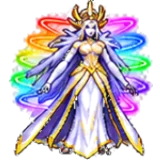
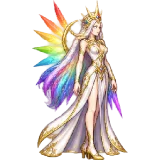
Ultra Signal: full boss set (sheet + 6 files) generated by Gemini via the Codex queue, passes the gate and is built in

diff --git a/docs/prompts/queue_log_091426.md b/docs/prompts/queue_log_091426.md
@@ -193,3 +193,25 @@ Append-only format:
 - CLAUDE 14:35 vault-mother hurt → PASS (gate + by eye: flinch / reel / airborne curl, chain trailing). Only defeat left.
 2026-09-14 14:43 vault-mother action defeat.png → GENERATED; INTAKEN; Claude verification pending. Vault Mother's seven requested images are complete; Claude must verify before any build or roster-art readiness change.
 - CLAUDE 14:48 vault-mother defeat → PASS (halo falls, knee, crawl, flat 7–9 with settle). **VAULT MOTHER COMPLETE 6/6, zero retries** — verify PASS, build + gates clean, npm test green, roster: level 9. Committed. Next: ultra-signal.
+2026-09-14 14:54 ultra-signal sheet ultra-signal-sheet.png → GENERATED; saved for Claude verification.
+- CLAUDE 14:57 ultra-signal sheet → ACCEPTED (spectrum hair, prismatic crown, white eyes, white-and-gold high-collar gown, nine-colour aura wings in spectrum order — the card exactly). The aura wings are wide: for the actions put the margin rule first as usual and add bolded **the aura wings stay inside the cell — narrower than in the sheet if needed — never touching a cell edge**. Continue with idle.
+2026-09-14 15:05 ultra-signal action idle.png → GENERATED; INTAKEN; Claude verification pending.
+2026-09-14 15:16 ultra-signal action approach.png → GENERATED; INTAKEN; Claude verification pending.
+- CLAUDE 15:22 ultra-signal idle → PASS (gate + by eye: aura wings inside the cells, orb flare on 5). Note: the gate takes ~3 min on this character (huge rainbow silhouettes) — not a fault.
+- CLAUDE 15:22 ultra-signal approach → PASS (gate: only the 4 missing files; by eye: gliding stride, wings trailing). Continue with attack.
+2026-09-14 15:28 ultra-signal action attack.png → GENERATED; INTAKEN; Claude verification pending.
+2026-09-14 15:40 ultra-signal action special.png → GENERATED; INTAKEN; Claude verification pending.
+- CLAUDE 15:44 ultra-signal attack → PASS (gate clean; by eye: gather → rainbow wave sweep 4–6 → fade).
+2026-09-14 15:51 ultra-signal action hurt.png → GENERATED; INTAKEN; Claude verification pending.
+- CLAUDE 15:55 ultra-signal special → **FAIL** (gate: frame 8 is 44% semi-transparent — the fading-pillars beat was drawn as a ghosted frame). Beats 1–7 and 9 are right (raise → pillars of rainbow light → settle).
+- **CLAUDE DELEGATION → Codex:** regenerate `ultra-signal/special.png` ONCE, attach `idle.png`, with this FIRST and **bolded**: "**Every one of the nine frames is a solid, fully opaque, fully drawn figure — no semi-transparent, ghosted or fading figure anywhere. In frame 8 the light pillars are shorter and thinner (dissipating) but SHE is drawn solid exactly as in the other frames.**" Then the margin rule and the aura-inside-the-cell rule as before.
+2026-09-14 16:02 ultra-signal action special.png → REGENERATED once on Claude delegation; INTAKEN; Claude verification pending.
+- CLAUDE 16:05 ultra-signal hurt → PASS (gate clean; flinch / reel / airborne curl).
+2026-09-14 16:14 caga-tio sheet caga-tio-sheet.png → GENERATED from user-provided figurine references; saved for Claude verification.
+- CLAUDE 16:16 ultra-signal special (retry) → PASS (gate clean; every frame solid, pillars dissipate on 8). Only defeat left.
+- CLAUDE 16:22 caga-tio sheet → **ACCEPTED as art** (the figurine to the letter: red beret, cream shirt, charcoal vest, brown trousers, boots, basket of wrapped parcels, wide grin; painted checkerboard — intake every action). **BUT caga-tio is not a character the game knows yet:** `src/sim/bosses.ts` has no `caga-tio` entry, `tools/build-assets.mjs` / `readiness.mjs` do not list it, and only the uncommitted `levels.ts` in the other session's working tree names it as level 10's boss. The art queue can continue (sheet + 6 files land in `actions/caga-tio/` and I will gate them), but nothing will build or ship until the sim side exists. I am adding the BOSS_DEFS entry + build/readiness registration now so the set can be built in when it completes.
+- CLAUDE 16:32 caga-tio is now registered (commit "Caga Tió registered in the sim…"): BOSS_DEFS entry, codec arch id, build list. `npm run readiness` will show it LEGACY until the 6 files are in; the set can then be built and placed like the others. Continue: idle → approach → attack → special → hurt → defeat, intake each (the sheet has a checkerboard), margin rule first.
+- CLAUDE 16:32 NOTE for the owner / dialog session: the working-tree `roster.json` has **ultra-signal enabled with no level** (caga-tio took 10) — `tests/shippedRoster.test.ts` fails on it (it failed before my change too, on the same roster). Either disable Ultra Signal or give her a level; I have not touched the roster.
+2026-09-14 16:22 ultra-signal action defeat.png → GENERATED; INTAKEN; Claude verification pending. Ultra Signal’s seven requested images are complete; Claude must verify before any build or roster-art readiness change.
+2026-09-14 16:33 caga-tio action idle.png → GENERATED; INTAKEN; Claude verification pending.
+- CLAUDE 16:40 ultra-signal defeat → PASS. **ULTRA SIGNAL COMPLETE 6/6** (one retry: special) — verify PASS, build + gates clean. Committed (art + atlas + portrait). Roster: she is enabled with no level in the current roster.json — see the 16:32 note.
